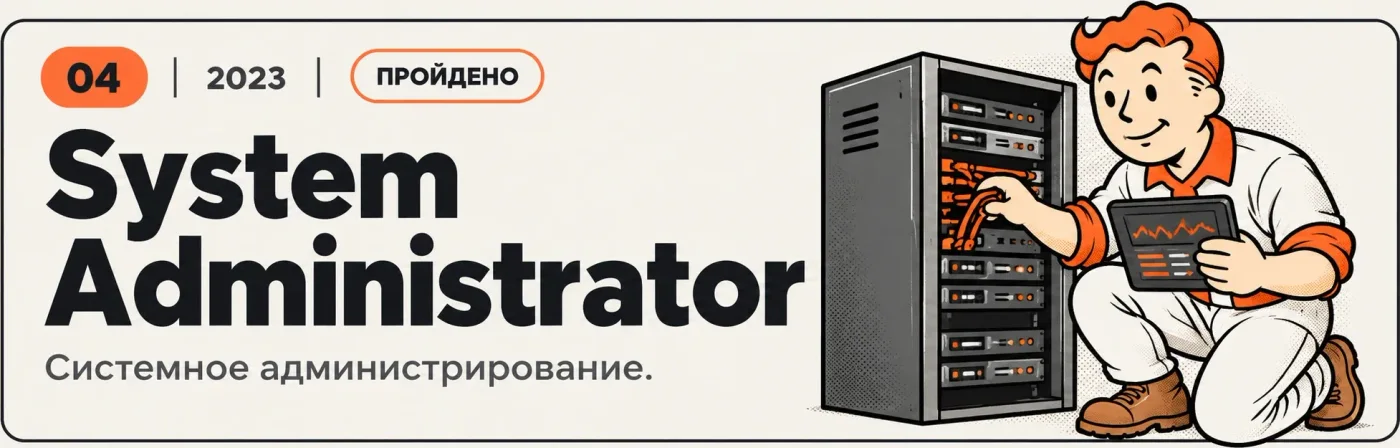
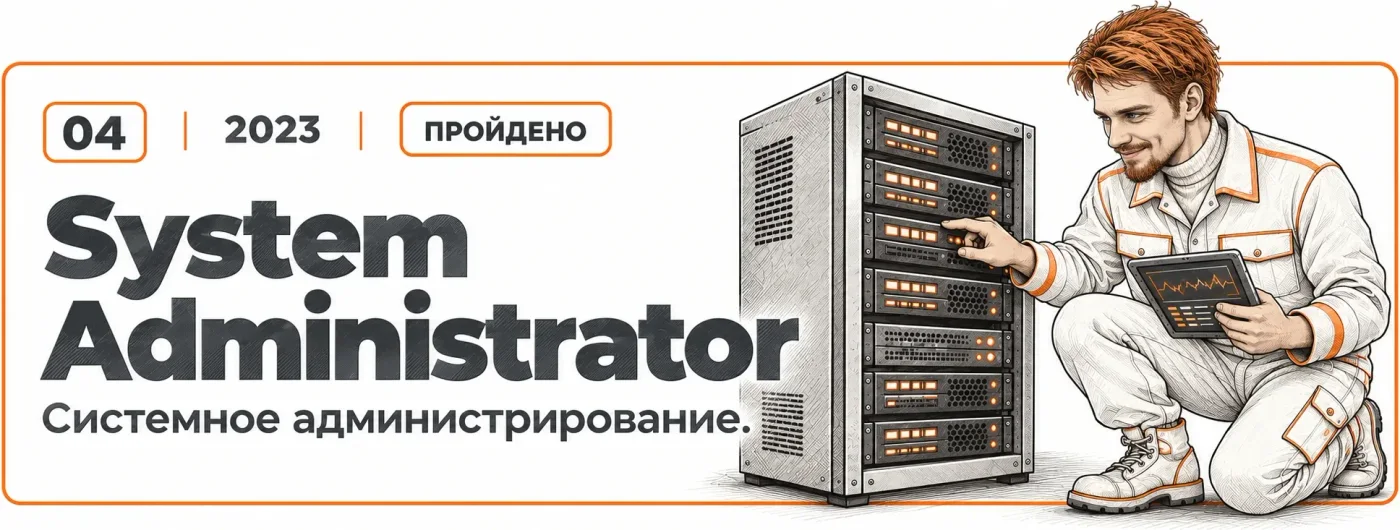
Светлая тема: новые портреты, карточки пути и сцены

diff --git a/src/styles/app.css b/src/styles/app.css
@@ -597,3 +597,6 @@ h3 { letter-spacing: -.02em; font-weight: 600; }
 @media (max-width: 820px) {
   .road-cols { grid-template-columns: 1fr; max-width: 560px; }
 }
+
+/* Light-theme portraits are opaque with a white background: make the frame white so they blend in */
+:root:not([data-theme="dark"]) .photo-frame { background: #fff; }

diff --git a/docs/PROMPT-v2.md b/docs/PROMPT-v2.md
@@ -108,3 +108,8 @@
 Промт: заменить все старые изображения тёмной темы новыми (присланы 18 картинок; набор пришёл дважды, использован второй).
 - Заменены: логотипы компаний (`public/logos/co/*-dark.webp`), сцены карточек опыта (`public/scenes/*-dark.webp`: картриджи — НПП «Александр», принтер — СНС, компьютер — Автоимпорт; у сцен прозрачный фон), обложки проектов (`public/projects/portrait-dark`, `soon-dark`), карточки «Мой путь» 01–06 (`public/road/step-NN-dark.webp`, размеры обновлены в `src/data/roadmapSizes.json`), три портрета (`public/photos/dark-1..3` и `-480`; порядок как прежде: пиджак → толстовка → водолазка) и все 18 иконок навыков (`public/skills/<id>-dark.webp`, нарезаны из общего листа 6×3 в круглые WebP 192).
 - Светлая тема и код не менялись; новые файлы взяты под прежними именами. Исходные листы в репозиторий не добавлялись.
+
+## Итерация 18 — новые изображения светлой темы
+Промт: заменить изображения светлой темы новыми (12 картинок).
+- Заменены: три портрета (`public/photos/light-1..3` и `-480`; порядок прежний: пиджак → водолазка → улыбка с бородой), карточки «Мой путь» 01–06 (`public/road/step-NN-light.webp`, поля обрезаны, размеры обновлены в `src/data/roadmapSizes.json`) и три сцены карточек опыта (`public/scenes/*-light.webp`).
+- Фон портретов НЕ вырезается (по просьбе пользователя): файлы с белым фоном, без прозрачности; на белой рамке они выглядят цельно. Логотипы, обложки проектов и иконки навыков светлой темы в этом наборе не присылались и не менялись.
